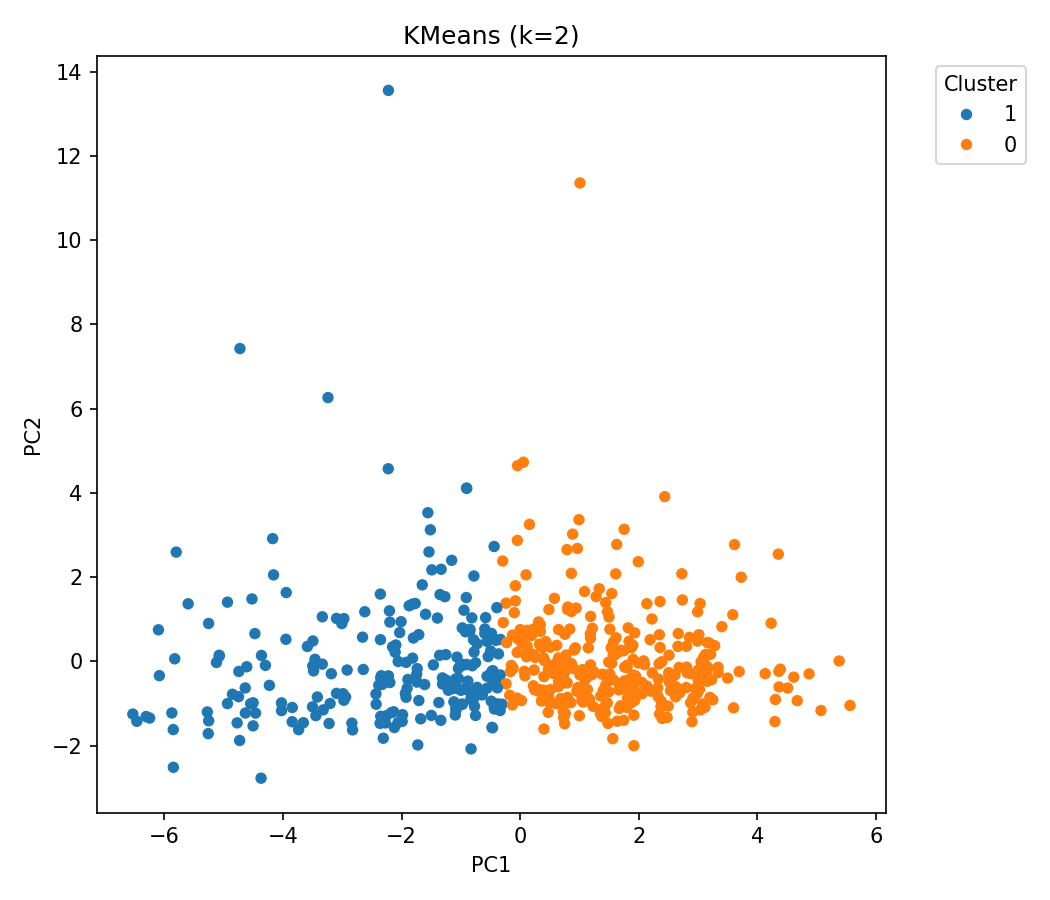
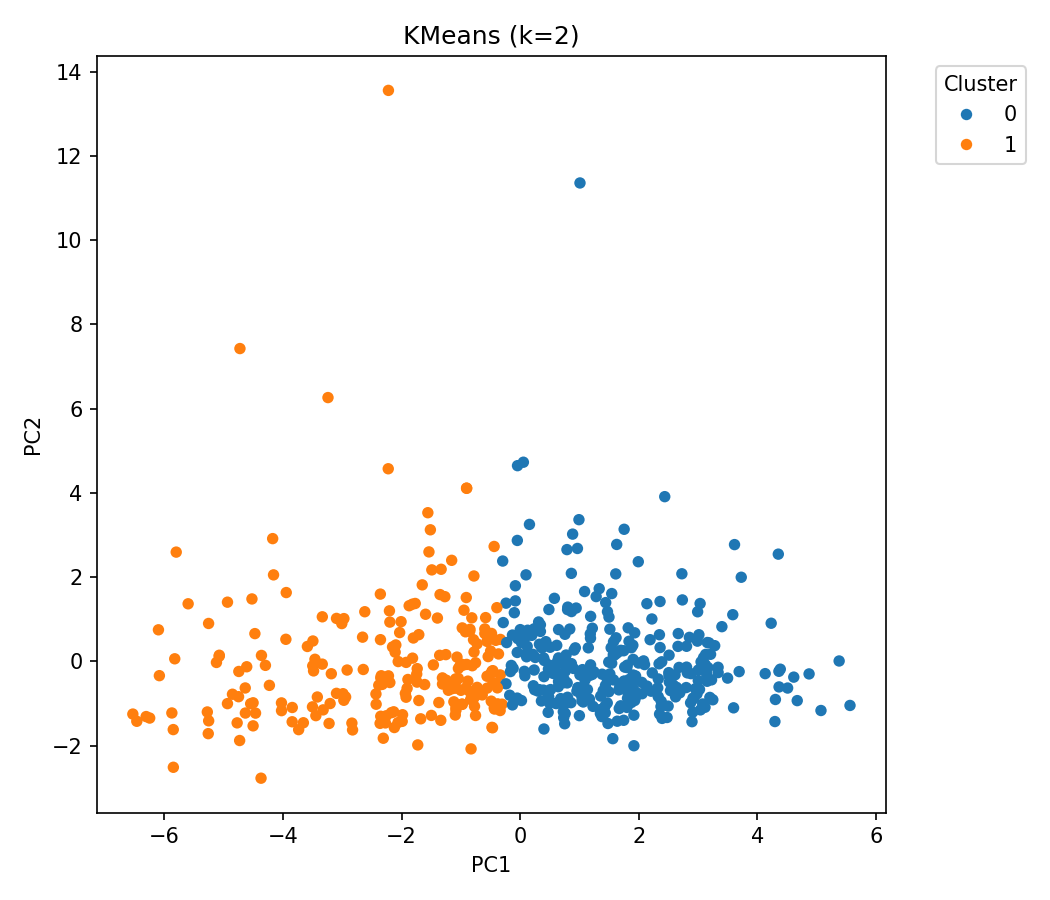
added final changes for clustering

diff --git a/cluster_knowledge_trajectories.py b/cluster_knowledge_trajectories.py
@@ -17,7 +17,6 @@ import matplotlib.pyplot as plt
 import seaborn as sns
 from pandas.plotting import parallel_coordinates
 from matplotlib.patches import Ellipse
-from sklearn.tree import DecisionTreeClassifier, plot_tree, export_text
 
 warnings.filterwarnings("ignore")
 
@@ -202,23 +201,7 @@ def _save_cluster_cards(feats: pd.DataFrame, feature_cols: list, labels: np.ndar
         plt.savefig(out_dir / f"cluster_card_{k}.png", dpi=150)
         plt.close()
 
-def _save_rule_explainers(feats: pd.DataFrame, feature_cols: list, labels: np.ndarray, out_dir: Path, label_name: str = "cluster"):
-    df = feats.copy()
-    df[label_name] = labels
-    out_dir.mkdir(parents=True, exist_ok=True)
-    feature_cols = [c for c in feature_cols if (c != "n_items") and (df[c].nunique() > 1)]
-    X = df[feature_cols].to_numpy()
-    for k in sorted(df[label_name].unique()):
-        y = (df[label_name].to_numpy() == k).astype(int)
-        clf = DecisionTreeClassifier(max_depth=3, min_samples_leaf=10, random_state=42)
-        clf.fit(X, y)
-        fig, ax = plt.subplots(figsize=(10, 6))
-        plot_tree(clf, feature_names=feature_cols, class_names=["rest", f"cluster {k}"], filled=True, impurity=False, proportion=True, rounded=True, ax=ax)
-        plt.tight_layout()
-        plt.savefig(out_dir / f"tree_cluster_{k}.png", dpi=150)
-        plt.close()
-        txt = export_text(clf, feature_names=list(feature_cols))
-        (out_dir / f"tree_cluster_{k}.txt").write_text(txt, encoding="utf-8")
+ 
 
 def _save_ridgeline_plots(feats: pd.DataFrame, labels: np.ndarray, out_dir: Path, features=None, label_name: str = "cluster"):
     df = feats.copy()
@@ -697,7 +680,19 @@ def pca_scatter(X: np.ndarray, labels: np.ndarray, title: str, out_path: Path):
     else:
         X2 = X
     plt.figure(figsize=(7.0, 6.0))
-    sns.scatterplot(x=X2[:, 0], y=X2[:, 1], hue=labels.astype(str), palette="tab10", s=30, linewidth=0)
+    # Ensure consistent colors and ordered legend (0..K-1)
+    lbls_num = labels.astype(int)
+    levels = [str(i) for i in sorted(np.unique(lbls_num))]
+    palette = sns.color_palette("tab10", n_colors=len(levels))
+    sns.scatterplot(
+        x=X2[:, 0],
+        y=X2[:, 1],
+        hue=lbls_num.astype(str),
+        hue_order=levels,
+        palette=palette,
+        s=30,
+        linewidth=0,
+    )
     plt.title(title)
     plt.xlabel("PC1")
     plt.ylabel("PC2")
@@ -1035,17 +1030,7 @@ def main():
     except Exception:
         pass
 
-    # Rule-based explainers (tiny decision trees)
-    try:
-        _save_rule_explainers(
-            feats,
-            feature_cols,
-            gmm_bic_best_labels,
-            figures_dir / "rule_explainers",
-            label_name="gmm_bic_best_label",
-        )
-    except Exception:
-        pass
+ 
 
     # Ridgeline plots for selected features
     try:
